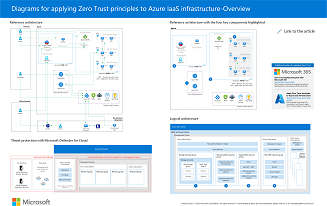
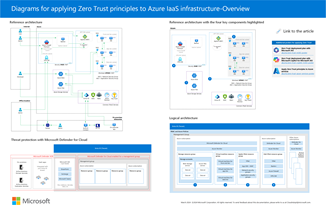
Updates to Azure downloads

diff --git a/security-docs/zero-trust/zero-trust-tech-illus.md b/security-docs/zero-trust/zero-trust-tech-illus.md
@@ -1,7 +1,7 @@
 ---
 title: Zero Trust illustrations for IT architects and implementers 
 description: Get the technical illustrations in the Zero Trust library to print or customize for your deployment.
-ms.date: 02/27/2024
+ms.date: 06/17/2024
 ms.service: security
 author: brendacarter
 ms.author: bcarter
@@ -49,13 +49,15 @@ Adopting Microsoft Copilot for Microsoft 365 or Copilot is a great incentive for
 |:-----|:-----|
 |[![Copilot architecture poster thumb](media/tech-illus/microsoft-365-copilot-architecture-thumb.png)](https://download.microsoft.com/download/c/d/6/cd6c6858-f87b-4dc5-a593-e87db0aa6029/microsoft-365-copilot-architecture.pdf) <br/> [PDF](https://download.microsoft.com/download/c/d/6/cd6c6858-f87b-4dc5-a593-e87db0aa6029/microsoft-365-copilot-architecture.pdf) \| [Visio](https://download.microsoft.com/download/c/d/6/cd6c6858-f87b-4dc5-a593-e87db0aa6029/microsoft-365-copilot-architecture.vsdx)  <br>Updated November 2023 | Copilot combines the power of large language models (LLMs) with your data in the Microsoft Graph — your calendar, emails, chats, documents, meetings, and more — and the Microsoft 365 apps to provide a powerful productivity tool. <br/><br/> This series of illustrations provides a view into new logical architecture components. It includes recommendations for preparing your environment for Copilot with security and information protection while assigning licenses. |
 
-## Zero Trust for Azure IaaS services
+## Apply Zero Trust to Azure IaaS infrastructure poster
 
 This illustration shows the components of Azure IaaS as reference and logical architectures, along with the steps to ensure that these components have the "never trust, always verify" principles of the Zero Trust model applied.
 
 | Item | Description |
 |:-----|:-----|
 |[![Thumbnail figure for the Apply Zero Trust to Azure IaaS infrastructure poster.](media/tech-illus/apply-zero-trust-to-Azure-IaaS-infra-poster-thumb.png)](https://download.microsoft.com/download/d/8/b/d8b38a95-803c-4956-88e6-c0de68f7f8e9/apply-zero-trust-to-Azure-IaaS-infra-poster.pdf) <br/> [PDF](https://download.microsoft.com/download/d/8/b/d8b38a95-803c-4956-88e6-c0de68f7f8e9/apply-zero-trust-to-Azure-IaaS-infra-poster.pdf) \| [Visio](https://download.microsoft.com/download/d/8/b/d8b38a95-803c-4956-88e6-c0de68f7f8e9/apply-zero-trust-to-Azure-IaaS-infra-poster.vsdx) <br/> Updated March 2024 | Use this illustration together with this article: [Apply Zero Trust principles to Azure IaaS overview](azure-infrastructure-overview.md) <br/><br/>**Related solution guides** <br/> <ul><li>[Azure Storage services](azure-infrastructure-storage.md)</li><li>[Virtual machines](azure-infrastructure-virtual-machines.md)</li><li>[Spoke virtual networks (VNets)](azure-infrastructure-iaas.md)</li><li>[Hub VNets](azure-infrastructure-networking.md)</li></ul>|
+
+## Diagrams for applying Zero Trust to Azure IaaS services
 
 You can also download the technical diagrams used in the [Zero Trust for Azure IaaS series of articles](azure-infrastructure-overview.md) as an easier way of viewing the illustrations in the articles or to modify them for your own use.
 
